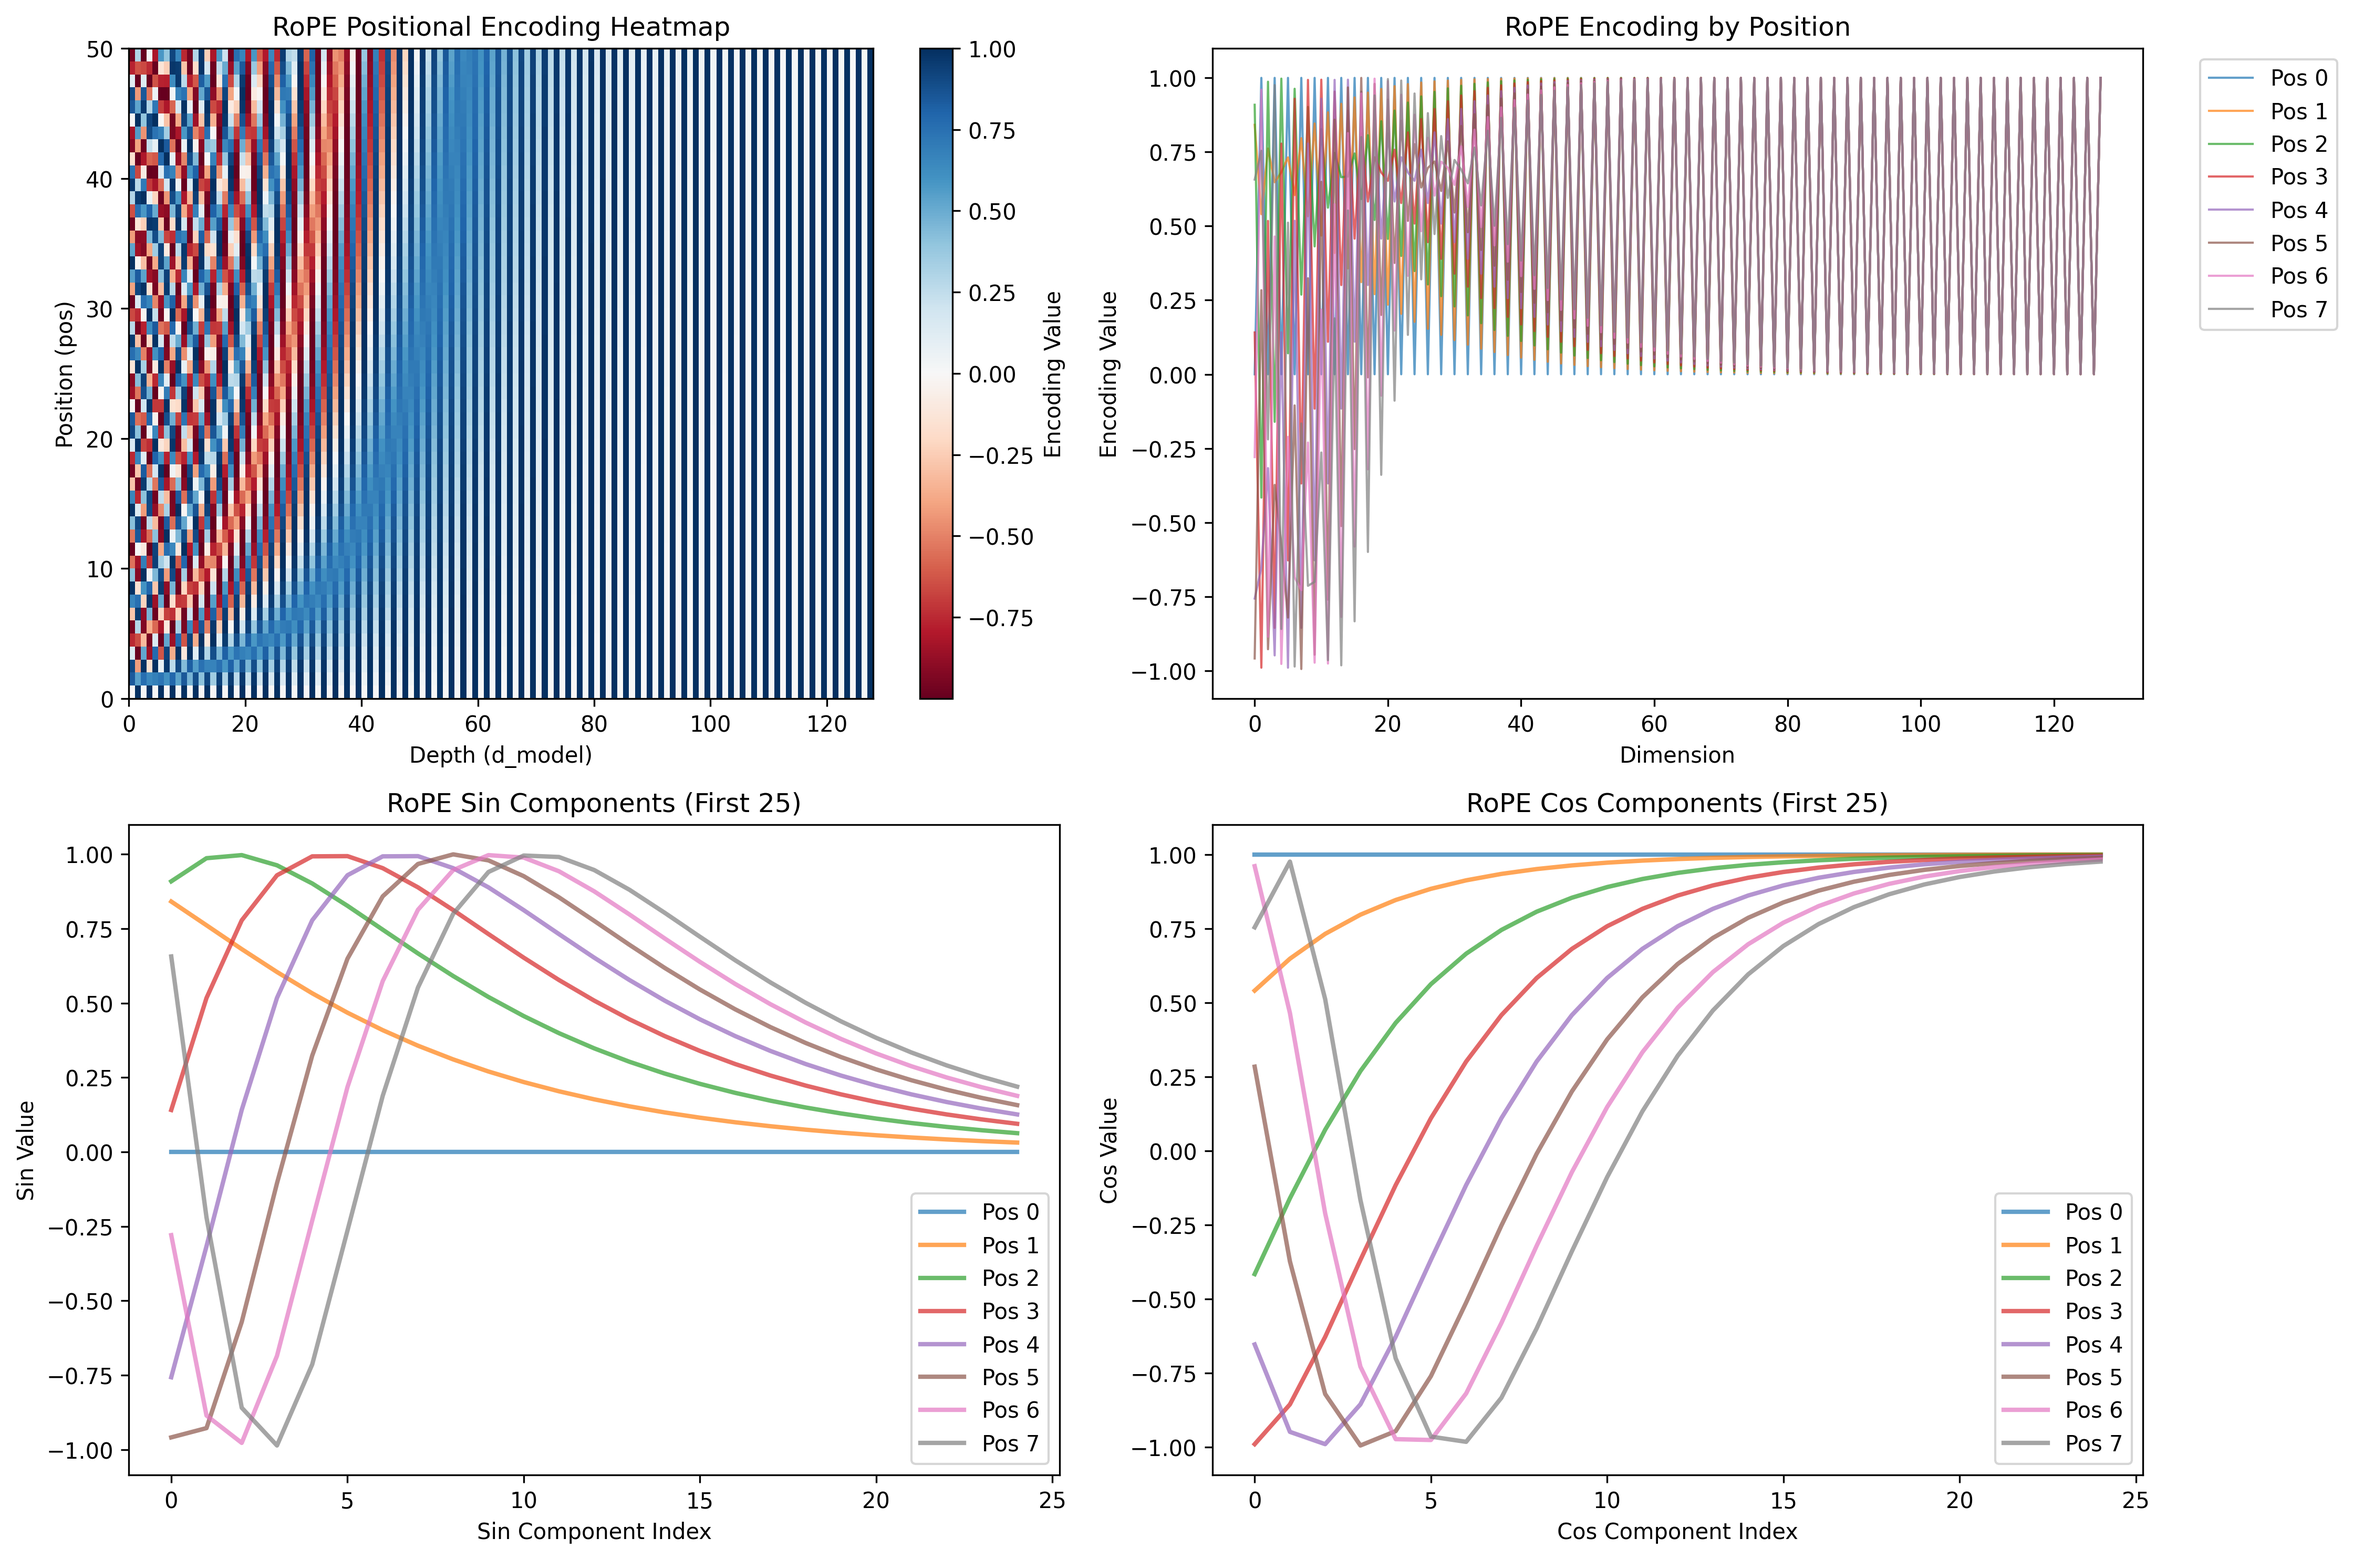
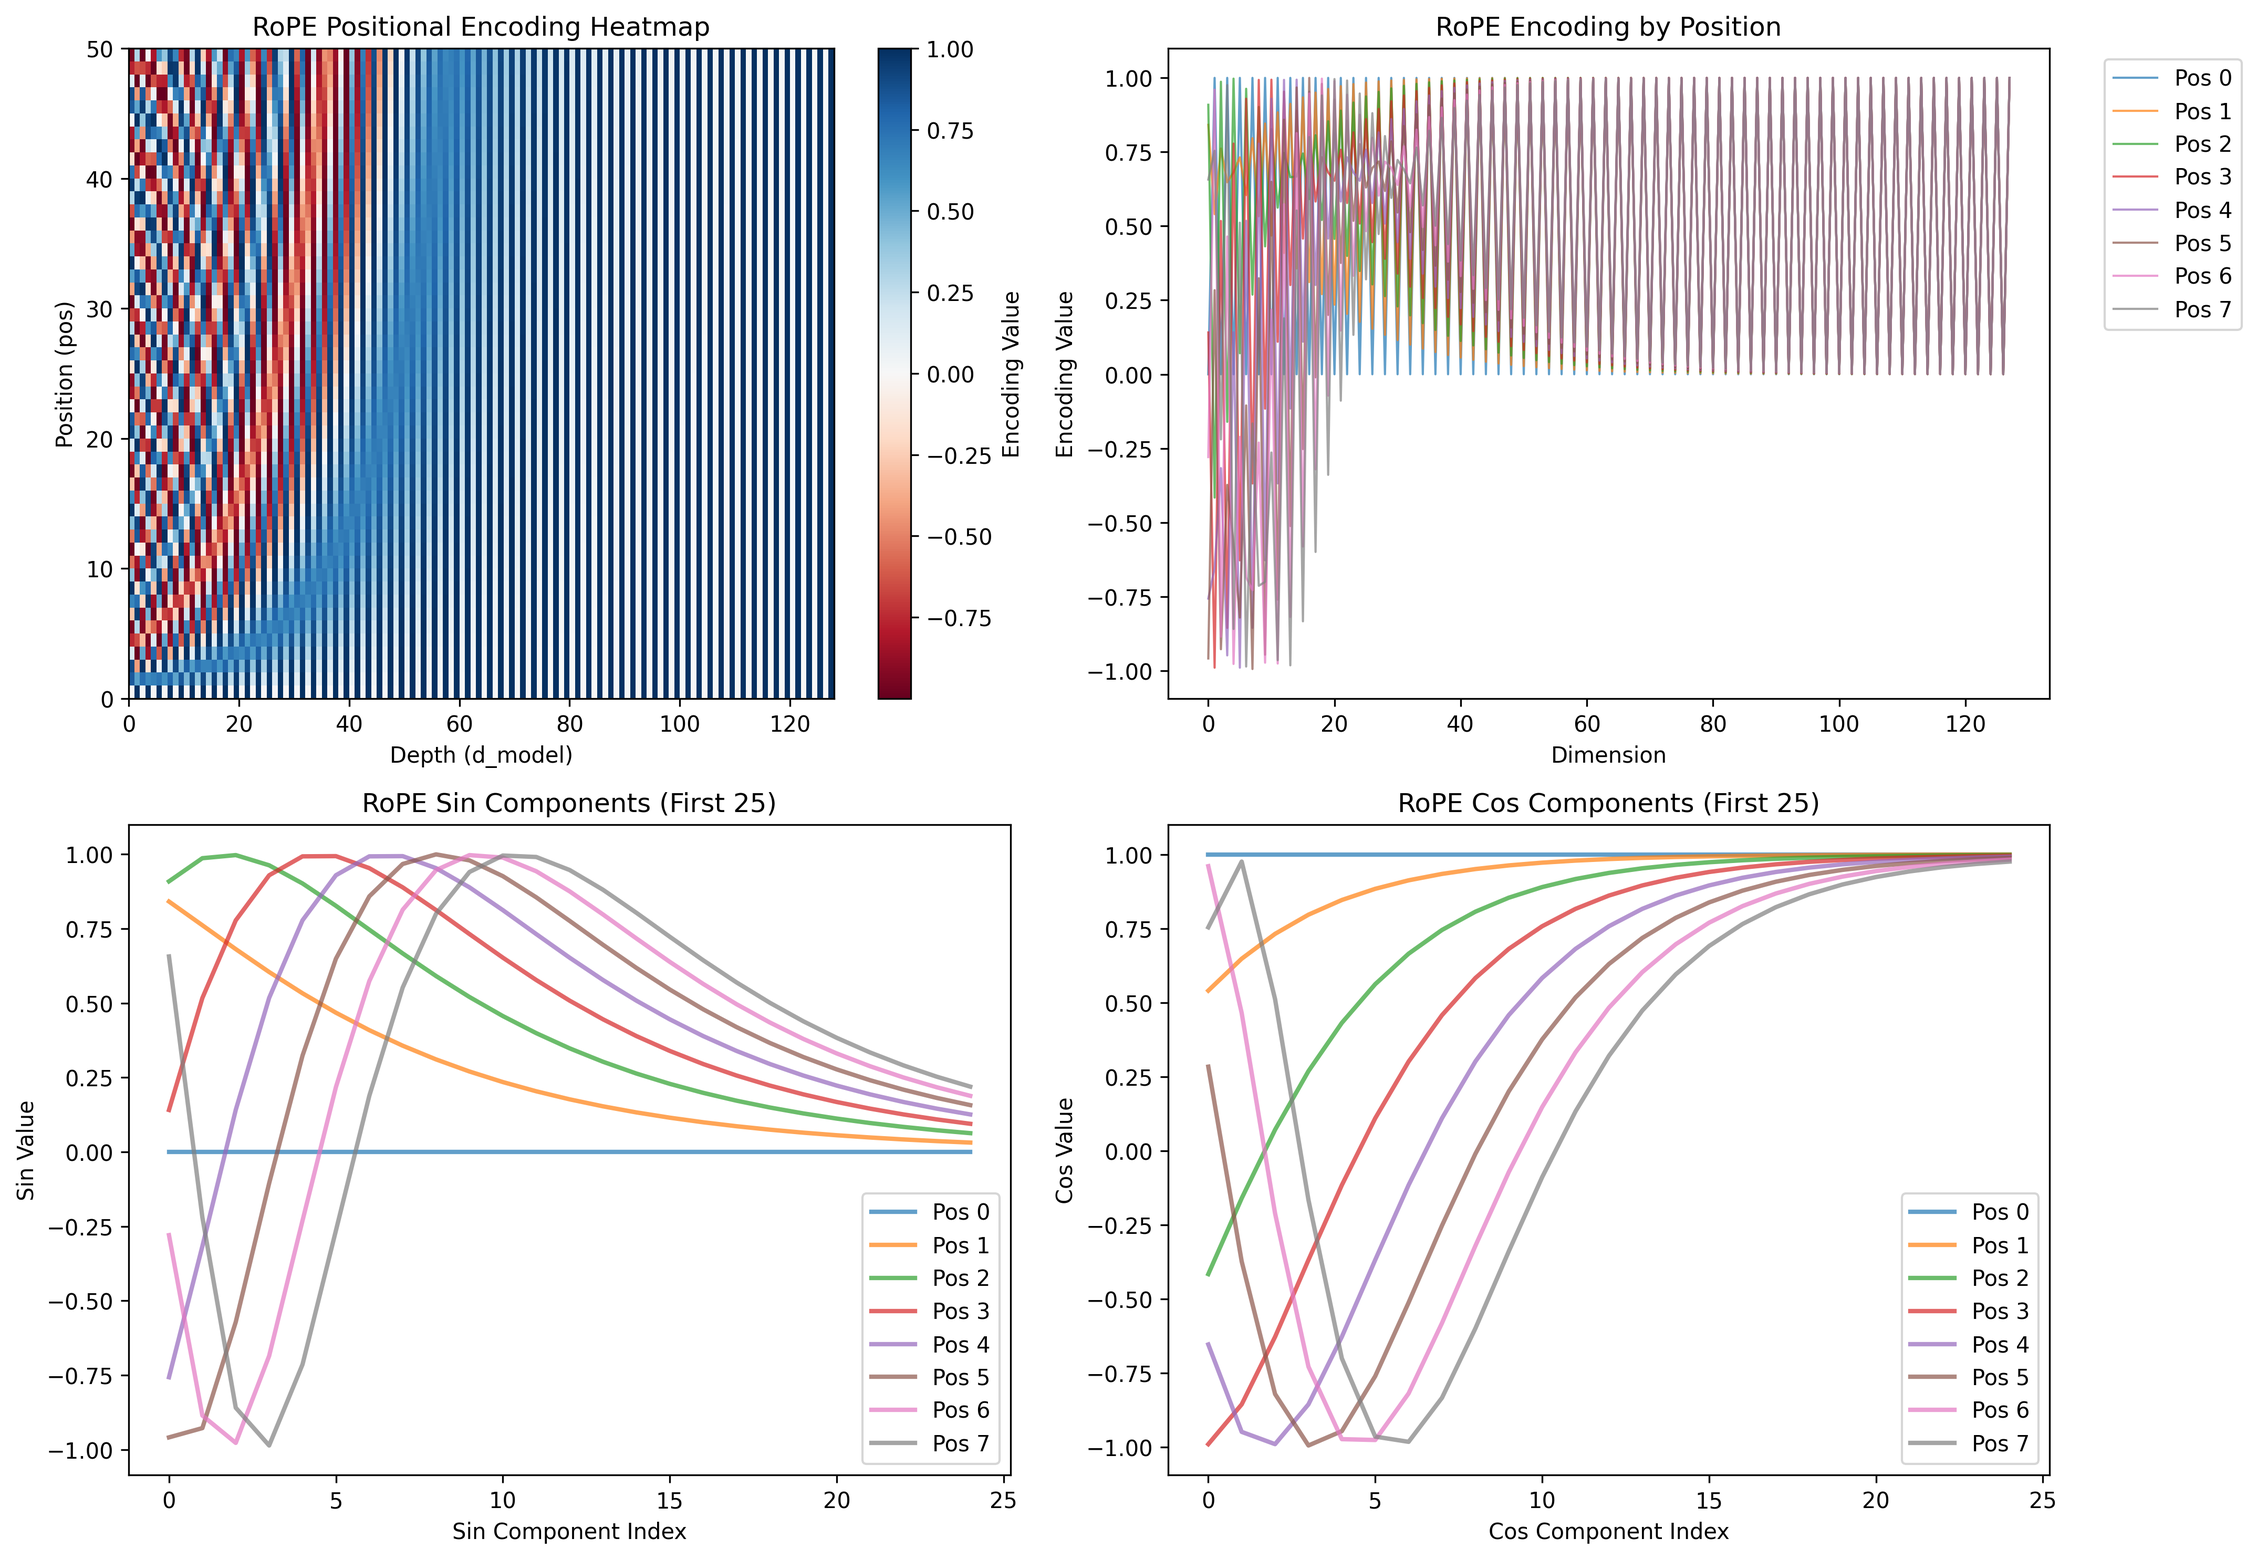
add ropes

diff --git a/learnings/Attentions/my_transformers/run_by_steps/step5_rope_positional_encoding.py b/learnings/Attentions/my_transformers/run_by_steps/step5_rope_positional_encoding.py
@@ -25,7 +25,7 @@ def get_device():
     return device
 
 
-class RoPEVisualizer:
+class RoPEPositionalEncoding:
     def __init__(self, max_len, d_model, nums_head=8, batch_size=1, device=None):
         self.max_len = max_len
         self.d_model = d_model
@@ -296,7 +296,7 @@ if __name__ == "__main__":
 
         # 1. 初始化RoPE可视化器
         print(f"\n🔨 初始化RoPE可视化器...")
-        rope_viz = RoPEVisualizer(
+        rope_viz = RoPEPositionalEncoding(
             max_len=max_length,
             d_model=d_model,
             nums_head=nums_head,

diff --git a/learnings/Attentions/my_transformers/run_by_steps/step6_model_building.py b/learnings/Attentions/my_transformers/run_by_steps/step6_model_building.py
@@ -138,6 +138,7 @@ class MultiHeadAttention(nn.Module):
         self.d_model = d_model
         self.num_heads = num_heads
         self.depth = d_model // num_heads  # 每个头的维度 Dh
+        assert self.depth % 2 == 0, "RoPE 需要每个头的维度为偶数 (head_dim % 2 == 0)"
 
         # 对应 Keras 的 Dense(d_model)
         self.WQ = nn.Linear(d_model, d_model, bias=True)
